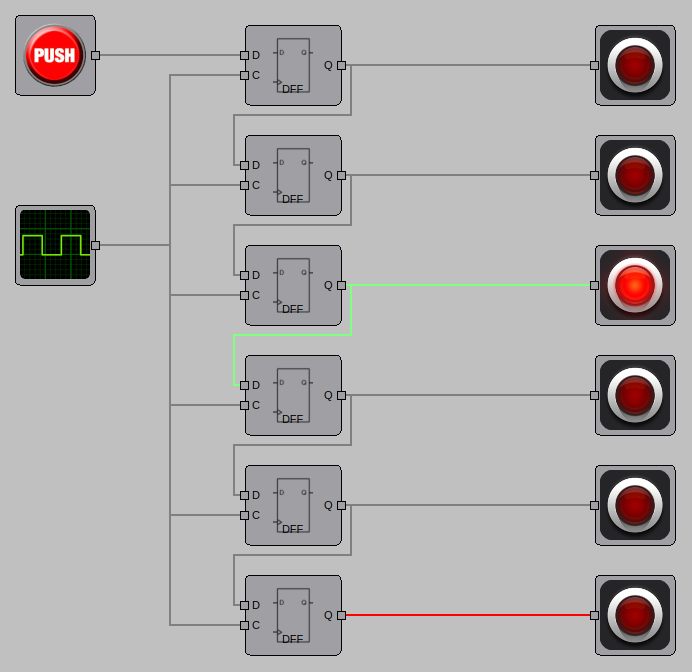
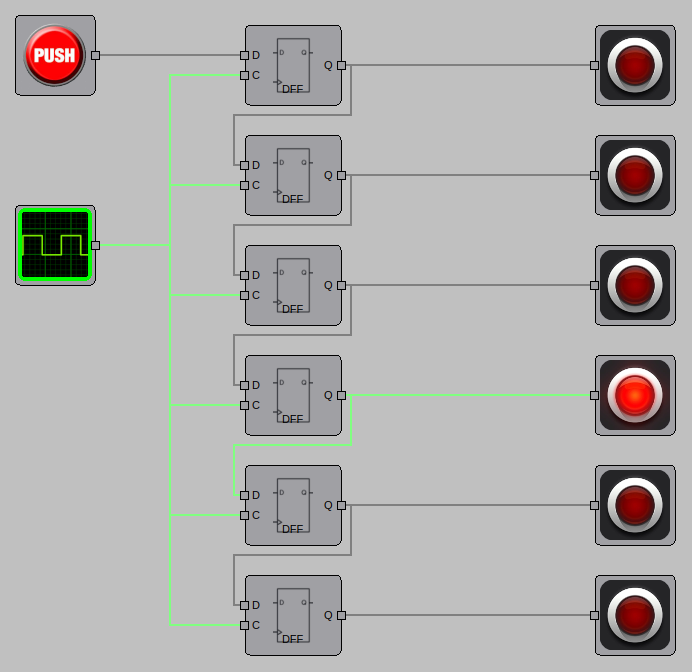
Show the shift register screenshot without undefined wires
The screenshot was taken before the undefined start values had been
clocked out of the last flip-flop, so its output wire was drawn red.
The circuit now runs for six clock periods before the button is
pressed.

diff --git a/docs/scripts/generate_examples.py b/docs/scripts/generate_examples.py
@@ -791,6 +791,8 @@ def screenshots() -> None:
                     component.turn_on()
             simulate(2500)
         elif name == "shift_register":
+            # Clock the undefined start values out of all six flip-flops (5 Hz clock)
+            simulate(1500)
             # Shift in a single one
             button = circuit.get_component("PushButton")
             assert isinstance(button, PushButton)

diff --git a/CHANGELOG.md b/CHANGELOG.md
@@ -60,6 +60,7 @@
  - Update the GitHub Actions in all workflows to their newest versions, which run on Node 24
  - The GUI circuit screenshots in the documentation are the same every time they are regenerated
  - Component parameters are typed with the Parameter TypedDict, so mypy checks their keys and types
+ - The shift register screenshot in the documentation shows no undefined wires
 
 ## v1.3.0
  - Bugfix: Error and close dialogs were not attached to the main window
